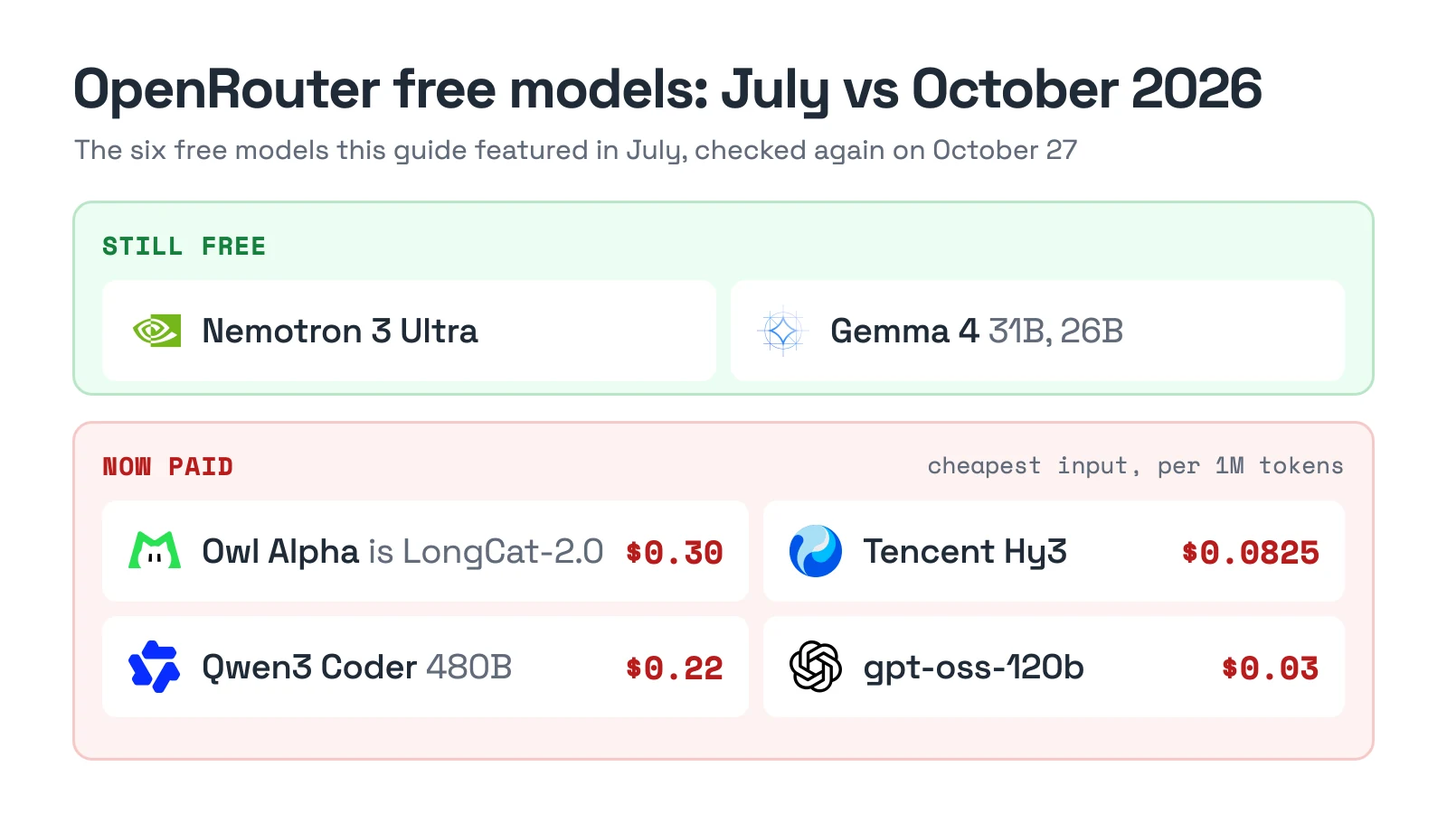
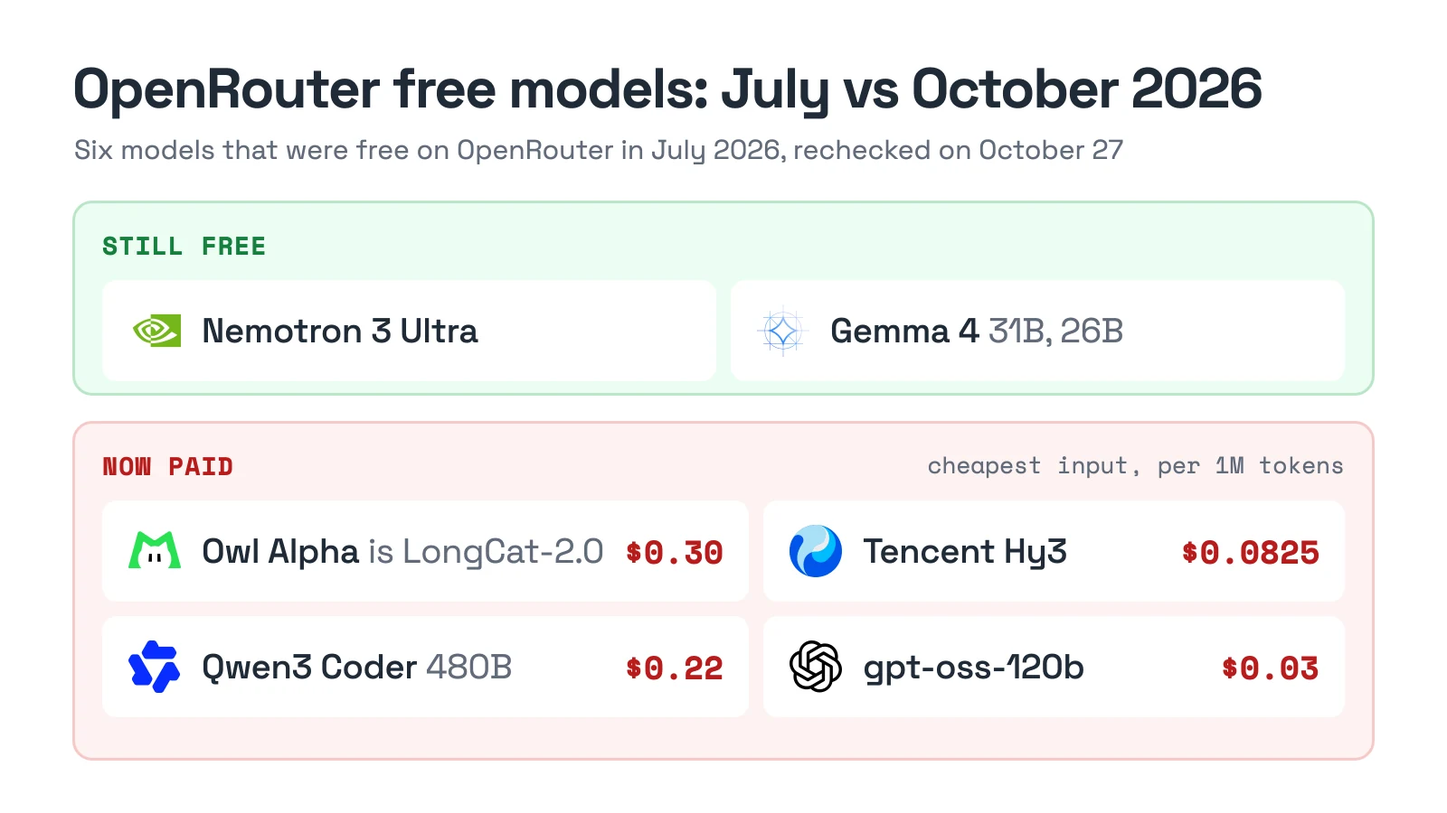
Update blog posts with latest model availability and security updates; refine writing style for clarity

Changed region(s): [[0.0312, 0.1556, 0.7812, 0.2178]]

diff --git a/content/blog/best_open_source_dns_servers_for_self_hosting.md b/content/blog/best_open_source_dns_servers_for_self_hosting.md
@@ -2,7 +2,7 @@
 title: "Best Self-Hosted Open Source DNS Servers in 2026 (PowerDNS, BIND, Unbound & More)"
 description: "A technical comparison of the best open source DNS servers you can self-host in 2026 - PowerDNS, BIND9, Unbound, NSD, Knot DNS, CoreDNS, Technitium, AdGuard Home, Pi-hole, Blocky, SmartDNS, and dnsmasq - with GitHub stars, license, language, latest versions, and the security releases each shipped through October 2026."
 date: 2026-07-31T14:15:25+05:30
-lastmod: 2026-10-26T14:15:25+05:30
+lastmod: 2026-10-27T14:15:25+05:30
 draft: false
 og_image: "images/best_open_source_dns_servers_for_self_hosting/best_open_source_dns_servers_for_self_hosting_banner.webp"
 tags: ["DNS", "self-hosted", "open source", "networking", "privacy"]
@@ -18,7 +18,7 @@ Every time a device on your network looks up a hostname, that query goes to what
 
 The open source DNS ecosystem splits into two fairly different categories, and mixing them up is the most common mistake people make when picking a server. The first category is authoritative nameservers and infrastructure-grade software - PowerDNS, BIND, NSD, Knot DNS, and CoreDNS - built to host zones, sign them with DNSSEC, and handle high query volumes. The second is home and small-office resolvers and forwarders - Unbound, Pi-hole, AdGuard Home, Blocky, and SmartDNS - most of which forward to an upstream resolver, cache answers, and block ad/tracker domains; Unbound is the exception that resolves recursively on its own. Technitium DNS Server straddles both.
 
-This update rechecks every version, star count and license as of October 27, 2026, and the biggest change since our July version is security. Between August and October, BIND fixed 18 CVEs across two releases, Unbound fixed 14, NSD fixed 8, and Pi-hole patched two high-severity remote code execution bugs in its FTL engine. Whichever server you pick, plan to patch it monthly.
+If you run any of these in 2026, the thing to plan for is security. Between August and October, BIND fixed 18 CVEs across two releases, Unbound fixed 14, NSD fixed 8, and Pi-hole patched two high-severity remote code execution bugs in its FTL engine. Whichever server you pick, plan to patch it monthly. Versions, star counts and licenses below were checked on October 27, 2026.
 
 {{% tldr %}}
 
@@ -158,7 +158,7 @@ The most immediate reason is privacy. Every domain you resolve tells your DNS pr
 </tbody>
 </table>
 
-## What Changed Since July: A Heavy Quarter for DNS Security
+## Why DNS Servers Ship So Many Security Fixes in 2026
 
 {{< image "best_open_source_dns_servers_for_self_hosting/dns_server_security_releases_2026.webp" "Timeline of security releases from BIND 9, Unbound, NSD, PowerDNS, Knot DNS, Technitium, Pi-hole, AdGuard Home and CoreDNS between August and October 2026" >}}
 
@@ -180,7 +180,7 @@ These are the servers you reach for when you need real internet-facing DNS infra
 
 {{< link href="https://coredns.io" >}}CoreDNS{{< /link >}} takes a completely different architectural approach: instead of one monolithic daemon with built-in features, it's a Caddy-style plugin chain, where each plugin does one job and you compose them into a `Corefile`. The `kubernetes` plugin turns it into cluster-wide service discovery, the `forward` plugin makes it a forwarder, the `file`/`auto` plugins serve authoritative zones (including pre-signed DNSSEC zones), and the `dnssec` plugin signs answers on the fly. There is no built-in recursive resolver; for that you compile in the external `unbound` plugin, which wraps libunbound. So what CoreDNS is depends entirely on which plugins you load. That flexibility, plus CNCF graduation in January 2019, is why it has been Kubernetes' default DNS server since version 1.13, though it works fine as a standalone server too.
 
-The two releases since July added a lot. v1.14.7 (August 19) brought ACME-managed TLS, topology-aware Kubernetes services, HTTP/2 forwarding and secondary zone management, and fixed two ACL bugs, including one where `autopath` could bypass ACL checks. v1.15.0 (October 21) lets the `forward` plugin use DNS-over-QUIC upstreams and adds opt-in JSON query logging, authenticated RFC 2136 dynamic updates and PROXY protocol v2 metadata. Both were also rebuilt on newer Go versions for Go's own CVE fixes.
+Its two most recent releases added a lot. v1.14.7 (August 19) brought ACME-managed TLS, topology-aware Kubernetes services, HTTP/2 forwarding and secondary zone management, and fixed two ACL bugs, including one where `autopath` could bypass ACL checks. v1.15.0 (October 21) lets the `forward` plugin use DNS-over-QUIC upstreams and adds opt-in JSON query logging, authenticated RFC 2136 dynamic updates and PROXY protocol v2 metadata. Both were also rebuilt on newer Go versions for Go's own CVE fixes.
 
 **Key Features:**
 - Caddy-style plugin-chain architecture - compose exactly the features you need
@@ -234,7 +234,7 @@ The Recursor can use DoT toward forwarders and authoritative servers, sends DNS 
 
 {{< link href="https://www.isc.org/bind/" >}}BIND 9{{< /link >}} from the Internet Systems Consortium (ISC) descends from the Berkeley Internet Name Domain package, written at UC Berkeley in the early 1980s, and ISC describes it as "the first, oldest, and most commonly deployed" DNS solution. The `named` daemon handles both authoritative and recursive roles in a single binary, with a feature set built up over decades: DNSSEC signing and validation, DoT and DoH (since BIND 9.18), zone transfers over TLS (XoT), Response Policy Zones for policy-based filtering, catalog zones for managing many zones as a group, and GSS-TSIG for secure dynamic updates in Windows/Active Directory environments.
 
-2026 is the year security fixes became routine in BIND's monthly releases. Since our July update, 9.20.29 (September 16) fixed 14 CVEs, mostly resolver crashes, resource exhaustion and DNSSEC validation bypasses, and 9.20.30 (October 21) fixed four more; 9.20.28 was withdrawn after a regression turned up in pre-release testing. The 9.18 branch reached end of life in June 2026, so 9.20 is now the only stable line, and ISC has deferred BIND 9.22 "until at least the end of 2026". ISC says it will review the situation in Q4, aiming to "return to our normal release cadence in Q1 2027." Until then, budget for a monthly patch window. Development happens on ISC's own GitLab; the GitHub repository is a read-only mirror.
+2026 is the year security fixes became routine in BIND's monthly releases. Version 9.20.29 (September 16) fixed 14 CVEs, mostly resolver crashes, resource exhaustion and DNSSEC validation bypasses, and 9.20.30 (October 21) fixed four more; 9.20.28 was withdrawn after a regression turned up in pre-release testing. Six months ago ISC was still supporting two branches, 9.18 and 9.20, but 9.18 reached end of life in June 2026, so 9.20 is now the only stable line, and ISC has deferred BIND 9.22 "until at least the end of 2026". ISC says it will review the situation in Q4, aiming to "return to our normal release cadence in Q1 2027." Until then, budget for a monthly patch window. Development happens on ISC's own GitLab; the GitHub repository is a read-only mirror.
 
 **Key Features:**
 - DNSSEC signing and validation, with a dedicated key-signing-request (KSR) utility
@@ -252,7 +252,7 @@ The Recursor can use DoT toward forwarders and authoritative servers, sends DNS 
 
 {{< link href="https://nlnetlabs.nl/projects/nsd/about/" >}}NSD{{< /link >}} (Name Server Daemon), also from NLnet Labs, takes the opposite approach from Unbound: it is authoritative-only by design, with no recursive resolution code at all. That narrow focus is deliberate - fewer code paths means a smaller attack surface and predictable, very high query throughput - and NLnet Labs says three DNS root servers and many top-level domain registries use NSD. It's often paired with Unbound: one box for authoritative zones, another for recursive lookups.
 
-NSD supports AXFR/IXFR zone transfers with DoT, catalog zones, and `nsd-control` for remote management. Since July it has shipped two security releases: 4.15.1 (August 26) fixed four CVEs, including an IP access-control bypass and two remote denial-of-service bugs, and 4.15.3 (October 14) fixed four bugs in its zone file parser that only trigger on crafted zone files, which matters if a multi-tenant provisioning system lets third parties supply zone data. Feature release 4.15.2 (September 2) added EDNS0 padding over TLS and an `allow-proxy` access list for the PROXYv2 port, and 4.15.4 (October 21) added a `report-channel` option for DNS error reporting plus more bug fixes.
+NSD supports AXFR/IXFR zone transfers with DoT, catalog zones, and `nsd-control` for remote management. It shipped two security releases between August and October: 4.15.1 (August 26) fixed four CVEs, including an IP access-control bypass and two remote denial-of-service bugs, and 4.15.3 (October 14) fixed four bugs in its zone file parser that only trigger on crafted zone files, which matters if a multi-tenant provisioning system lets third parties supply zone data. Feature release 4.15.2 (September 2) added EDNS0 padding over TLS and an `allow-proxy` access list for the PROXYv2 port, and 4.15.4 (October 21) added a `report-channel` option for DNS error reporting plus more bug fixes.
 
 **Key Features:**
 - Multi-process query serving (`server-count`) for very high queries-per-second
@@ -270,7 +270,7 @@ NSD supports AXFR/IXFR zone transfers with DoT, catalog zones, and `nsd-control`
 
 {{< link href="https://www.knot-dns.cz" >}}Knot DNS{{< /link >}} is built by CZ.NIC, the registry that runs the `.cz` ccTLD, and like NSD it is authoritative-only (CZ.NIC ships a separate product, Knot Resolver, for recursive lookups). What makes Knot DNS distinctive is its **AF_XDP mode**: it uses Linux's eXpress Data Path to process UDP, TCP and QUIC DNS traffic close to the network interface, skipping most of the kernel's network stack for much higher packet throughput.
 
-Knot DNS 3.6.0 (September 8) is the first new feature line since our July update. It adds early support for DELEG, the new delegation record type the IETF is working on, a "trash bin" that lets you recover deleted DNSSEC keys, and DNSSEC answer validation in `kdig` with `+validate`. It also removes TCP Fast Open support and drops packages for Debian 11 and Ubuntu 20.04. 3.6.1 and 3.6.2 (October 21) followed with hardening, including fixes for DoT 0-RTT memory exhaustion and compression-pointer abuse, and 3.5.8 fixed a TSIG bug that could let an attacker forge dynamic DNS updates. Development happens on CZ.NIC's GitLab; GitHub hosts a mirror.
+Knot DNS 3.6.0 (September 8) opened a new feature line. It adds early support for DELEG, the new delegation record type the IETF is working on, a "trash bin" that lets you recover deleted DNSSEC keys, and DNSSEC answer validation in `kdig` with `+validate`. It also removes TCP Fast Open support and drops packages for Debian 11 and Ubuntu 20.04. 3.6.1 and 3.6.2 (October 21) followed with hardening, including fixes for DoT 0-RTT memory exhaustion and compression-pointer abuse, and 3.5.8 fixed a TSIG bug that could let an attacker forge dynamic DNS updates. Development happens on CZ.NIC's GitLab; GitHub hosts a mirror.
 
 **Key Features:**
 - Automatic DNSSEC signing with automatic or manual key rollover
@@ -310,7 +310,7 @@ AdGuard Home explicitly collects no usage statistics, which matters if privacy i
 
 {{< link href="https://pi-hole.net" >}}Pi-hole{{< /link >}} is the project most people mean when they say "self-hosted DNS ad blocker," and it has the largest community of anything in this guide, with 61.5K GitHub stars on its core repository. Since FTL v4.0 in 2018, the resolver engine (a fork of dnsmasq) has been compiled directly into **FTL** rather than running as a separate process, and Pi-hole v6 moved the web server and REST API into the same binary, dropping lighttpd and PHP. The project ships three coordinated version numbers per release: FTL (the resolver), Web (the dashboard), and Core (install/update scripts). The current set, released October 17, is Core v6.5, FTL v6.8 and Web v6.6.1.
 
-Pi-hole uses the EUPL-1.2 license, an EU-originated copyleft license that's uncommon in this space compared to the GPL, Apache, BSD and MPL licenses the rest of this list uses - worth knowing if your organization has a license-approval process. The security picture since July is busy. FTL v6.7.1 (September 19) fixed two high-severity remote code execution bugs through the `webserver.advancedOpts` and `misc.dnsmasq_lines` settings, and those two options can no longer be changed from the API or web interface, only in `pihole.toml`, environment variables or `pihole-FTL --config`. The October release fixed another batch, including root privilege issues in Core and a bug that let read-only app sessions read password hashes and the TOTP secret. Its docs ask for just 512MB of RAM, so it runs on very small hardware, but "simple to set up" doesn't mean "safe to leave unpatched."
+Pi-hole uses the EUPL-1.2 license, an EU-originated copyleft license that's uncommon in this space compared to the GPL, Apache, BSD and MPL licenses the rest of this list uses - worth knowing if your organization has a license-approval process. September and October were busy on the security side. FTL v6.7.1 (September 19) fixed two high-severity remote code execution bugs through the `webserver.advancedOpts` and `misc.dnsmasq_lines` settings, and those two options can no longer be changed from the API or web interface, only in `pihole.toml`, environment variables or `pihole-FTL --config`. The October release fixed another batch, including root privilege issues in Core and a bug that let read-only app sessions read password hashes and the TOTP secret. Its docs ask for just 512MB of RAM, so it runs on very small hardware, but "simple to set up" doesn't mean "safe to leave unpatched."
 
 **Key Features:**
 - Simplest, most widely documented ad-blocking DNS sinkhole to set up
@@ -412,4 +412,4 @@ One important caution: this pattern is for the **web UI**, not the raw DNS port.
 
 ## Conclusion
 
-There's no single "best" open source DNS server - it depends on whether you need real infrastructure (**PowerDNS**, **BIND**, **NSD**, **Knot DNS**, **CoreDNS**, **Technitium**) or a home-network resolver or ad blocker (**Unbound**, **Pi-hole**, **AdGuard Home**, **Blocky**, **SmartDNS**). What changed in 2026 is the maintenance load: with AI-assisted bug hunting driving a wave of CVEs, monthly security releases are now normal for the biggest projects. Whichever you pick, keep it patched, restrict who can query it, and verify it's resolving correctly with `dig` before switching your network over.
+There's no single "best" open source DNS server - it depends on whether you need real infrastructure (**PowerDNS**, **BIND**, **NSD**, **Knot DNS**, **CoreDNS**, **Technitium**) or a home-network resolver or ad blocker (**Unbound**, **Pi-hole**, **AdGuard Home**, **Blocky**, **SmartDNS**). The harder part in 2026 is the maintenance load: with AI-assisted bug hunting driving a wave of CVEs, monthly security releases are now normal for the biggest projects. Whichever you pick, keep it patched, restrict who can query it, and verify it's resolving correctly with `dig` before switching your network over.

diff --git a/content/blog/free_ai_model_apis_unlimited_tokens_openrouter.md b/content/blog/free_ai_model_apis_unlimited_tokens_openrouter.md
@@ -2,7 +2,7 @@
 title: "How to get Free AI Model APIs with 'Unlimited' Tokens"
 description: "How to get free AI model APIs on OpenRouter in late 2026: the real limits (20 requests a minute, 50 or 1,000 a day), the current free catalog (Inkling, Nemotron 3 Ultra, Nemotron 3.5 Super VL, Gemma 4), what free endpoints log, and working code."
 date: 2026-07-10T11:30:00+05:30
-lastmod: 2026-10-26T11:30:00+05:30
+lastmod: 2026-10-27T11:30:00+05:30
 draft: false
 tags: ["OpenRouter", "AI Models", "API", "LLM router"]
 categories: ["AI", "Development", "APIs"]
@@ -19,7 +19,7 @@ Most developers hit the same wall once they start building with large language m
 
 Search "free AI API unlimited tokens" and you'll find a pile of posts promising a way around that. The honest version is less exciting but more useful: {{< link href="https://openrouter.ai" >}}OpenRouter{{< /link >}} gives you no-credit-card access to a rotating set of models at **$0 per token**, but "unlimited" isn't the right word. You get 20 requests per minute and either 50 or 1,000 requests per day, depending on whether you've bought $10 of credits. No token cap, but a very real request cap.
 
-We first published this guide in July 2026, and the free list has turned over almost completely since then. Four of the six models we featured (Owl Alpha, Tencent Hy3, Qwen3 Coder and gpt-oss-120b) are no longer free, and the lineup is now led by Thinking Machines' 975-billion-parameter Inkling and NVIDIA's Nemotron family. This update rechecks every limit, price and model ID against OpenRouter's live API and model pages as of October 27, 2026.
+The free list also turns over fast. In July 2026, Owl Alpha, Tencent Hy3, Qwen3 Coder and gpt-oss-120b were all free on OpenRouter; none of them is free today, and the lineup is led by Thinking Machines' 975-billion-parameter Inkling and NVIDIA's Nemotron family. Every limit, price and model ID below was checked against OpenRouter's live API and model pages on October 27, 2026.
 
 Here's the current free lineup at a glance before we get into the mechanics:
 
@@ -80,7 +80,7 @@ That table covers the six worth knowing individually. Counting embedding, rerank
 
 **Getting started**: Create an account at <a href="https://openrouter.ai/keys" target="_blank">openrouter.ai/keys</a> (email or GitHub, no card needed), generate an API key, and call the OpenAI-compatible endpoint at `https://openrouter.ai/api/v1/chat/completions` with any model ID ending in `:free`. A `GET` to `https://openrouter.ai/api/v1/key` tells you how many free requests you have left today.
 
-**Free models worth knowing right now** (October 2026, verify before you rely on one): Inkling, Nemotron 3 Ultra, Nemotron 3.5 Super VL, Gemma 4 and Laguna S 2.1 (until October 31), plus the `openrouter/free` router. Owl Alpha, Tencent Hy3, Qwen3 Coder and gpt-oss have all lost their free variants since July.
+**Free models worth knowing right now** (October 2026, verify before you rely on one): Inkling, Nemotron 3 Ultra, Nemotron 3.5 Super VL, Gemma 4 and Laguna S 2.1 (until October 31), plus the `openrouter/free` router. Owl Alpha, Tencent Hy3, Qwen3 Coder and gpt-oss were free in July and aren't anymore.
 
 **The catch beyond rate limits**: free endpoints often log what you send. NVIDIA, Thinking Machines and Poolside all say on their OpenRouter model pages that free-tier traffic is logged or may be used to improve their models, so keep confidential data off them.
 
@@ -162,7 +162,7 @@ No OpenRouter-specific SDK, no custom client library. If your code already talks
 
 ### Handling Rotation and Rate Limits with Fallback Models
 
-The single most important production tip for the free tier: **don't hardcode one free model**. Free variants get pulled or repriced without much warning. Since July, `qwen/qwen3-coder:free`, `openai/gpt-oss-120b:free`, `tencent/hy3:free` and `nvidia/nemotron-3-super-120b-a12b:free` have all disappeared, and any code pinned to them now fails. OpenRouter's <a href="https://openrouter.ai/docs/guides/routing/model-fallbacks" target="_blank">`models` array</a> lets you list several candidates in priority order in one request:
+The single most important production tip for the free tier: **don't hardcode one free model**. Free variants get pulled or repriced without much warning. Between July and late October 2026, `qwen/qwen3-coder:free`, `openai/gpt-oss-120b:free`, `tencent/hy3:free` and `nvidia/nemotron-3-super-120b-a12b:free` have all disappeared, and any code pinned to them now fails. OpenRouter's <a href="https://openrouter.ai/docs/guides/routing/model-fallbacks" target="_blank">`models` array</a> lets you list several candidates in priority order in one request:
 
 ```json
 {
@@ -181,13 +181,13 @@ By default any error can send the request to the next model, including context-l
 
 If you'd rather not manage a list at all, `openrouter/free` is a router that picks a free model at random from the ones that support what your request needs, such as tool calling, structured outputs or image input. It trades predictability for convenience: you don't control which model answers, but your code keeps working as the free lineup changes.
 
-## What Changed Since July
+## How Free Models Leave OpenRouter
 
 {{< image "free_ai_model_apis_unlimited_tokens_openrouter/openrouter_free_models_july_vs_october.webp" "Status of OpenRouter's July 2026 free models in October 2026: Nemotron 3 Ultra and Gemma 4 still free, Owl Alpha (now LongCat-2.0), Tencent Hy3, Qwen3 Coder and gpt-oss-120b now paid" >}}
 
 *Prices: cheapest OpenRouter provider per million input tokens, October 27, 2026.*
 
-Of the six models this guide featured in July, two are still free. The other four show the different ways a free listing ends.
+Three months ago the free list looked different. In July, Nemotron 3 Ultra, Gemma 4, Owl Alpha, Tencent Hy3, Qwen3 Coder and gpt-oss-120b were all free. Only the first two still are, and the other four show the different ways a free listing ends.
 
 **Owl Alpha turned out to be Meituan's LongCat-2.0.** It was a stealth model, a prerelease checkpoint OpenRouter serves for free under a codename while the lab collects real-world usage. At the end of June, Meituan's LongCat team <a href="https://x.com/Meituan_LongCat/status/2071783587205308721" target="_blank">introduced LongCat-2.0</a> as "the full model behind Owl Alpha": 1.6 trillion parameters, about 48B active per token, and a 1M-token context. The weights are on <a href="https://huggingface.co/meituan-longcat/LongCat-2.0" target="_blank">Hugging Face</a> under the MIT license, and on OpenRouter `meituan/longcat-2.0` costs $0.30/M input and $1.20/M output, currently shown as a discounted price.
 
@@ -195,7 +195,7 @@ The same thing happened again this fall. A stealth model called Space Bunny left
 
 **Tencent Hy3's free window closed.** Tencent had set July 21 as the end date for the free listing, and Hy3 is now paid only, from $0.0825/M input and $0.33/M output through Tencent's own endpoint.
 
-**Qwen3 Coder and gpt-oss-120b lost their `:free` variants.** Both are still on OpenRouter as paid models: Qwen3 Coder from $0.22/M input, and gpt-oss-120b from $0.03/M input and $0.15/M output across about two dozen providers. At that price gpt-oss is close to free anyway. The smaller July entries went the same way: the free Llama 3.3 70B, Llama 3.2 3B and Hermes 3 405B variants are gone, and NVIDIA's Nemotron 3 Super lost its free endpoint in late October (paid from $0.08/M input). DeepSeek still has no free model, though V4.1 Flash is listed at $0.14/M input and $0.42/M output.
+**Qwen3 Coder and gpt-oss-120b lost their `:free` variants.** Both are still on OpenRouter as paid models: Qwen3 Coder from $0.22/M input, and gpt-oss-120b from $0.03/M input and $0.15/M output across about two dozen providers. At that price gpt-oss is close to free anyway. Smaller free models from July went the same way: the free Llama 3.3 70B, Llama 3.2 3B and Hermes 3 405B variants are gone, and NVIDIA's Nemotron 3 Super lost its free endpoint in late October (paid from $0.08/M input). DeepSeek still has no free model, though V4.1 Flash is listed at $0.14/M input and $0.42/M output.
 
 ## The Free Model Catalog Right Now
 
@@ -243,7 +243,7 @@ Google DeepMind's {{< link href="https://openrouter.ai/google/gemma-4-31b-it:fre
 
 {{< link href="https://openrouter.ai/poolside/laguna-s-2.1:free" >}}Laguna S 2.1{{< /link >}} is Poolside's coding-agent model: 118B total parameters, 8B active, open-weight under the OpenMDW-1.1 license, with a 262K context on the free endpoint. Poolside reports 70.2% on Terminal-Bench 2.1 and 40.4% on DeepSWE. Those are vendor numbers, but strong ones for a model with 8B active parameters, and of everything on the free list it's the one most directly built for {{< link href="/blog/best_ai_tools_for_coding/" newtab=false >}}coding agents{{< /link >}}. That's exactly the problem: the model page says "Going away October 31, 2026", and the smaller `poolside/laguna-xs-2.1:free` (33B total, 3B active) expires the same day. Poolside also says it may use free-tier inputs and outputs to train its models. And it isn't only the free tier that's ending: the paid listing ($0.09/M input, $0.18/M output, 1M context) shows the same "Going away October 31, 2026" date, as does the paid Laguna XS 2.1.
 
-We're calling it out for the same reason we called out Tencent Hy3 in July: free-tier listicles go stale within weeks. After October 31, 2026, check <a href="https://openrouter.ai/poolside/laguna-s-2.1:free" target="_blank">its current listing</a> before you use it.
+We're calling it out because free-tier listicles go stale within weeks. After October 31, 2026, check <a href="https://openrouter.ai/poolside/laguna-s-2.1:free" target="_blank">its current listing</a> before you use it.
 
 ### The Rest of the Current Free Roster
 

diff --git a/CLAUDE.md b/CLAUDE.md
@@ -113,6 +113,7 @@ Write like a seasoned developer talking shop, the kind of post that does well on
 - **Code blocks earn their place.** Show the command or the diff; don't paste 80 lines of boilerplate. Annotate with `# comment` only when the line isn't self-explanatory.
 - **Inline code for short plain-text snippets.** A single short line of unhighlighted plain text - a URL, an env var assignment, a filename, a value - should be inline code (single backticks), not a fenced code block. Fenced blocks (which render as the dark terminal card) are for multi-line commands/output or syntax-highlighted code. Avoid bare ` ``` ` / ` ```text ` fences for one-liners: `https://abc123.a.pinggy.link` reads better inline than as a one-line terminal card.
 - **Don't sound like AI.** No *delve, dive in, it's worth noting, in conclusion, not just X but Y*, rule-of-three lists, or neat summary lines closing every section.
+- **Updated posts don't read like a changelog.** When updating a post, don't add headings or text about what changed since the post's last version: no `## What Changed Since July`, "This update rechecks...", "since our July update", "the models this guide featured", and no image titles or sub lines like that either. Write the post as if it were written today. Where the history matters to the reader, say it in general terms about the subject, not the article: "Six months ago ISC was still supporting two BIND branches", "In July, these six models were free on OpenRouter". A plain freshness note ("Prices below were checked on October 27, 2026") is fine.
 - **At least two small typos per blog post** (`teh`, `recieve`), in prose only - never in code, commands, URLs, names, headings, or front matter. Blog posts only, not docs or other pages.
 
 ### Image titles
